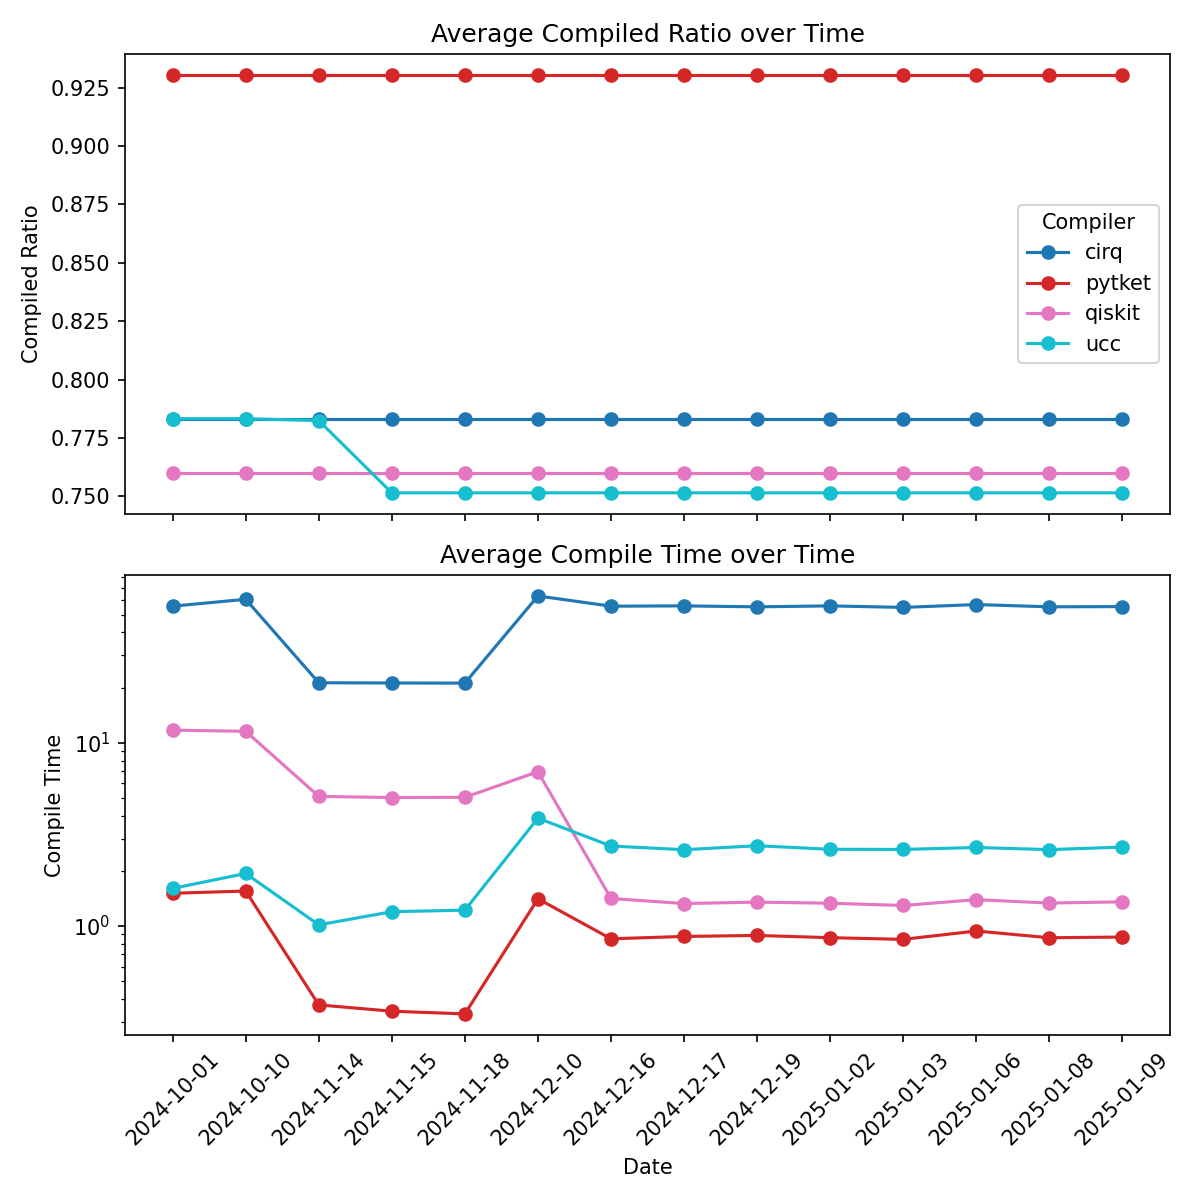
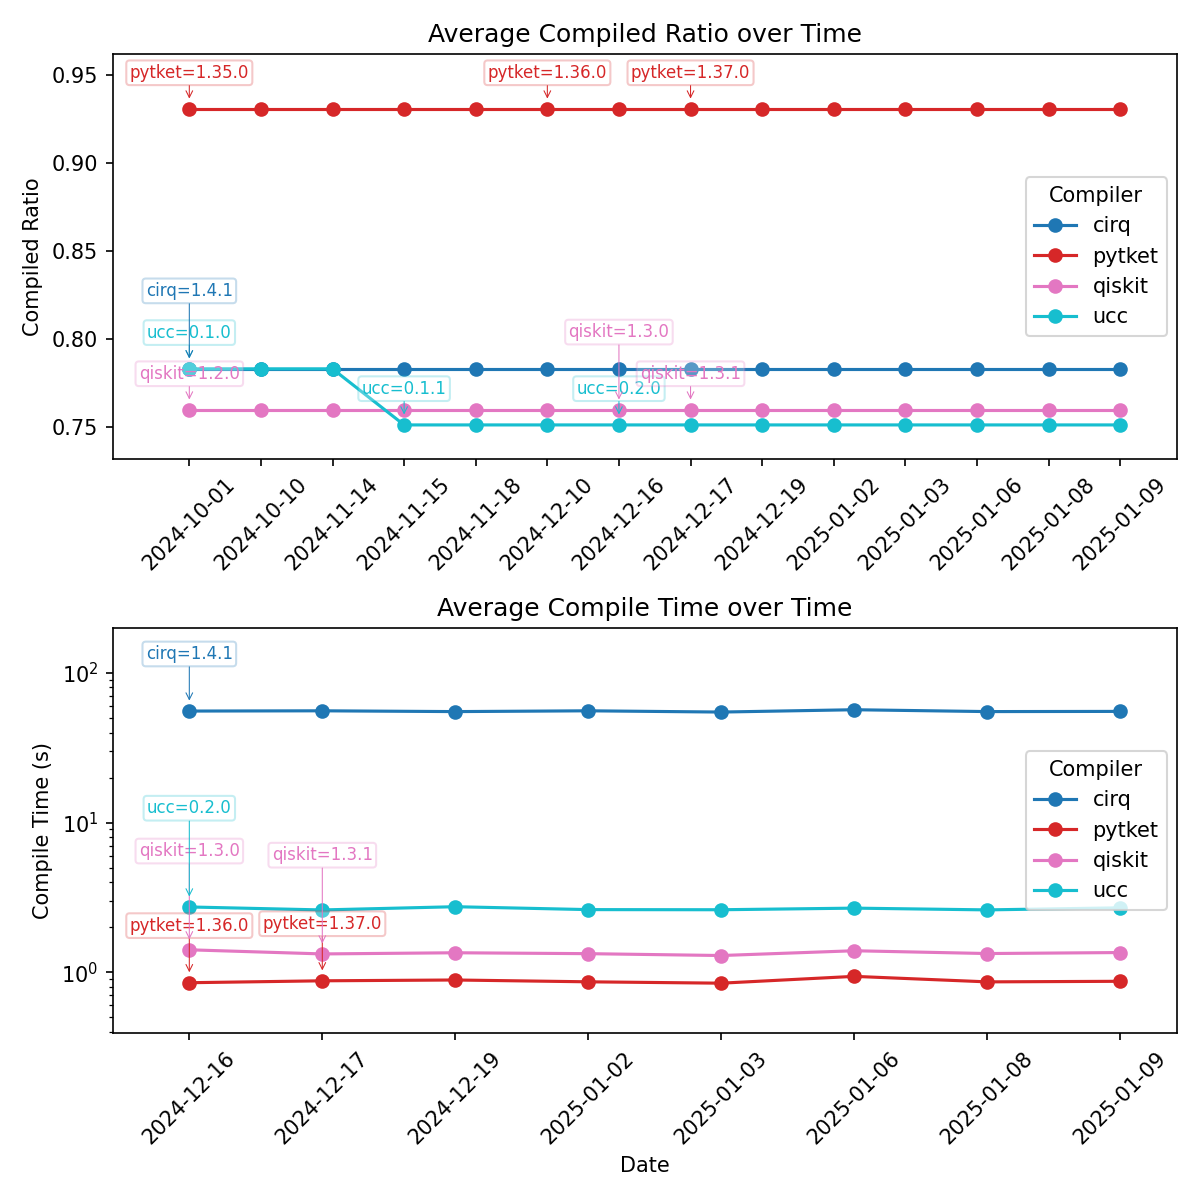
145 plot compiler versions over time on graph (#173)
* Initial code with version labels, needs formatting fixes

* Boxes attached to arrows for labels

* Move old data to test_results

* Closer formatting but still missing some labels

* Bring back datafiles from before GH Action pipeline and plot compiled ratio only

* Reset last_version_seen so all compiler versions are annotated in plot 2

* New plotting utilities for formatting. Close to what we need

* Closer, still overlapping slightly

* merge in main (#172)

* prep for pypi release

* author update

* contact email update

---------

* Rename image to previous name

* Simplify

* Sucessfully avoiding label overlaps, next to re-order labels vertically  based on datapoint location

* Correct version to reflect when the improvement was made rather than official release date

* Refactoring, very close to perfect

* Nicest plots yet, just one overlap to fix

* Pretty dang good

---------

diff --git a/benchmarks/scripts/plot_avg_benchmarks_over_time.py b/benchmarks/scripts/plot_avg_benchmarks_over_time.py
@@ -1,52 +1,59 @@
+from common import annotate_and_adjust, adjust_axes_to_fit_labels
+
 import glob
 import pandas as pd
 import matplotlib.pyplot as plt
 import os
+import re
 
+
+### Load data
 # Get the directory of the current script
 directory_of_this_file = os.path.dirname(os.path.abspath(__file__))
-
-# Construct the correct path to the results folder
 results_folder = os.path.join(directory_of_this_file, "../results")
-
-# Use glob to find all CSV files in the results folder
 csv_files = glob.glob(os.path.join(results_folder, "gates*.csv"))
 
 dataframes = []
 
-print("Loading data files...", )
-# Loop through each CSV file and read it into a DataFrame
-for file in csv_files:
-    print(file)
-    # Note, this will combine results from the same date
-    date_label = str(file).split('_')[1].split('.')[0]
-    df = pd.read_csv(file, header=1)  # Load the CSV file into a DataFrame
-    df['date'] = date_label
-    df['reduction_factor'] = df['raw_multiq_gates'] / df['compiled_multiq_gates'] 
-    df['gate_reduction_per_s'] = df['reduction_factor'] / df['compile_time']
-    df['compiled_ratio'] = df['compiled_multiq_gates'] / df['raw_multiq_gates']
-    
-    dataframes.append(df)   # Append the DataFrame to the list
+def extract_compiler_versions(header):
+    pattern = r"(\w+)=([\d\.]+)"
+    return dict(re.findall(pattern, header))
 
-# Concatenate all DataFrames into a single DataFrame
+print("Loading data files...")
+for file in csv_files:
+    with open(file, 'r') as f:
+        header_line = f.readline().strip()
+        compiler_versions = extract_compiler_versions(header_line)
+    date_label = str(file).split('_')[1].split('.')[0]
+    df = pd.read_csv(file, header=1)
+    df['date'] = date_label
+    df['compiled_ratio'] = df['compiled_multiq_gates'] / df['raw_multiq_gates']
+    df['compiler_version'] = df['compiler'].map(compiler_versions)
+ 
+    dataframes.append(df)
+
 df_dates = pd.concat(dataframes, ignore_index=True)
 
-# Calculate averages for plotting
-avg_compiled_ratio = df_dates.groupby(["compiler", "date"])["compiled_ratio"].mean().reset_index().sort_values("date")
-avg_compile_time = df_dates.groupby(["compiler", "date"])["compile_time"].mean().reset_index().sort_values("date")
+# Find the average compiled ratio for each compiler on each date
+avg_compiled_ratio = df_dates.groupby(["compiler", "date", "compiler_version"])["compiled_ratio"].mean().reset_index().sort_values("date")
 
-# Set global DPI
-plt.rcParams['figure.dpi'] = 150  # Adjust DPI as needed
+# Find the average compile time for each compiler on each date
+avg_compile_time = df_dates.groupby(["compiler", "date", "compiler_version"])["compile_time"].mean().reset_index().sort_values("date")
 
-# Create a colormap for unique compilers
+
+###### Plotting
+# Ensure colors are consistently assigned to each compiler
 unique_compilers = sorted(df_dates["compiler"].unique())
 colormap = plt.get_cmap("tab10", len(unique_compilers))
 color_map = {compiler: colormap(i) for i, compiler in enumerate(unique_compilers)}
 
-# Create subplots
-fig, ax = plt.subplots(2, 1, figsize=(8, 8), sharex=True)
+fig, ax = plt.subplots(2, 1, figsize=(8, 8), sharex=False, dpi=150)
+# Rotate x labels on axes 0
+plt.setp(ax[0].xaxis.get_majorticklabels(), rotation=45)
 
-# Plot avg_compiled_ratio
+
+#### Plot Compiled ratio
+print("Plotting compiled ratio...")
 for compiler in unique_compilers:
     compiler_data = avg_compiled_ratio[avg_compiled_ratio["compiler"] == compiler]
     ax[0].plot(
@@ -57,11 +64,63 @@ for compiler in unique_compilers:
         linestyle="-",
         color=color_map[compiler]
     )
+
+# Keep track of last compiler version seen over time to track version changes
+last_version_seen = {compiler: None for compiler in unique_compilers}
+
+previous_bboxes = []
+# Now iterate over each compiler entry and annotate if it's a new version, if so label it
+for date in avg_compiled_ratio["date"].unique():
+    date_data = avg_compiled_ratio[avg_compiled_ratio["date"] == date]
+    # Sort date_data in order of compiled_ratio
+    date_data = date_data.sort_values("compiled_ratio")
+    # print('Date data for \n', date, date_data, '\n')
+    # Now iterate over each compiler entry and annotate if it's a new version
+    for _, row in date_data.iterrows():
+        # Get the version for this date 
+        current_version = row["compiler_version"]
+        compiler = row["compiler"]
+        compiled_ratio = row["compiled_ratio"]
+        
+        # Check if the version has changed
+        if current_version != last_version_seen[compiler]:
+            text = f"{compiler}={current_version}"
+            xy = (row["date"], compiled_ratio)
+            color = color_map[compiler]
+
+            # Add the annotation and adjust for overlap
+            annotate_and_adjust(
+                ax=ax[0],
+                text=text,
+                xy=xy,
+                color=color,
+                previous_bboxes=previous_bboxes,
+                offset=(0, 15),  # Initial offset
+                increment=2,  # Vertical adjustment step
+                max_attempts=10,
+            )
+            plt.pause(0.1)
+            # Update the last seen version for this compiler
+            last_version_seen[compiler] = current_version
+    previous_bboxes = [] # Reset previous bboxes for next date            
+adjust_axes_to_fit_labels(ax[0], x_scale=1.01, y_scale=1.05)
+# Set y axis range to be slightly larger than data range
+
 ax[0].set_title("Average Compiled Ratio over Time")
 ax[0].set_ylabel("Compiled Ratio")
-ax[0].legend(title="Compiler")
+# ax[0].legend(title="Compiler", loc='center left')
+# Expand axes to be slightly larger than data range
+ax[0].legend(title="Compiler", loc="center right")
 
-# Plot avg_compile_time
+
+#### Plot Compile time
+# Get runtime data only after we created GitHub Actions pipeline for standardization
+avg_compile_time = avg_compile_time[avg_compile_time["date"] >= "2024-12-16"]
+
+previous_annotations = []
+last_version_seen = {compiler: None for compiler in unique_compilers}
+
+print("Plotting compile time...")
 for compiler in unique_compilers:
     compiler_data = avg_compile_time[avg_compile_time["compiler"] == compiler]
     ax[1].plot(
@@ -72,18 +131,49 @@ for compiler in unique_compilers:
         linestyle="-",
         color=color_map[compiler]
     )
+
+# Add annotations for version changes
+for date in avg_compile_time["date"].unique():
+    date_data = avg_compile_time[avg_compile_time["date"] == date]
+    # Sort date_data in order of compiled_ratio
+    date_data = date_data.sort_values("compile_time")
+    for _, row in date_data.iterrows():
+        # print(row, '\n')
+        # Get the version for this date 
+        current_version = row["compiler_version"]
+        compiler = row["compiler"]
+        compile_time = row["compile_time"]
+        
+        # Check if the version has changed
+        if current_version != last_version_seen[compiler]:
+            text = f"{compiler}={current_version}"
+            xy = (row["date"], compile_time)
+            color = color_map[compiler]
+
+            # Add the annotation and adjust for overlap
+            annotate_and_adjust(
+                ax=ax[1],
+                text=text,
+                xy=xy,
+                color=color,
+                previous_bboxes=previous_bboxes,
+                offset=(0, 25),  # Initial offset
+                increment=2,  # Vertical adjustment step
+                max_attempts=10,
+            )
+            # plt.pause(0.1)
+            # Update the last seen version for this compiler
+            last_version_seen[compiler] = current_version
+
 ax[1].set_title("Average Compile Time over Time")
-ax[1].set_ylabel("Compile Time")
+ax[1].set_ylabel("Compile Time (s)")
 ax[1].set_xlabel("Date")
 ax[1].set_yscale("log")
+ax[1].legend(title="Compiler", loc="center right")
+adjust_axes_to_fit_labels(ax[1], x_scale=1.01, y_scale=1.75, y_log=True)
 
 plt.xticks(rotation=45)
-
-# Adjust layout and save the figure
 plt.tight_layout()
 filename = os.path.join(directory_of_this_file, "../avg_compiler_benchmarks_over_time.png")
-print(f"\n Saving plot to {filename}")
+print(f"\nSaving plot to {filename}")
 fig.savefig(filename)
-
-# Show the plot (optional)
-# plt.show()

diff --git a/benchmarks/scripts/common.py b/benchmarks/scripts/common.py
@@ -2,6 +2,7 @@ from time import time
 import platform
 import os
 import pandas as pd
+import matplotlib
 from datetime import datetime
 from cirq import CZTargetGateset, optimize_for_target_gateset
 from pytket.circuit import OpType
@@ -21,7 +22,6 @@ from pytket import __version__ as pytket_version
 from ucc import __version__ as ucc_version
 
 import sys  # Add sys to accept command line arguments
-import os
 from ucc import compile as ucc_compile
 
 
@@ -188,6 +188,7 @@ def save_results(results_log, benchmark_name="gates", folder="../results", appen
 
     print(f"Results saved to {file_path}")
 
+
 # Read the QASM files passed as command-line arguments
 def get_qasm_files():
     if len(sys.argv) < 2:
@@ -195,3 +196,143 @@ def get_qasm_files():
         sys.exit(1)
     
     return sys.argv[1:]
+
+
+def annotate_and_adjust(ax, text, xy, color, previous_bboxes, offset=(0, 15), increment=5, fontsize=8, max_attempts=20):
+    """
+    Annotates the plot while dynamically adjusting the position to avoid overlaps. In-place operation.
+
+    Parameters:
+        ax (matplotlib.axes.Axes): The axis object to annotate.
+        text (str): The annotation text.
+        xy (tuple): The (x, y) coordinates for the annotation anchor point.
+        color (str): The color for the text and arrow.
+        previous_bboxes (list): A list to track previous annotation bounding boxes (in data coordinates).
+        offset (tuple): The initial offset in points (x_offset, y_offset).
+        increment (int): The vertical adjustment increment in points to resolve overlaps.
+        fontsize (int): Font size of the annotation text.
+        max_attempts (int): The maximum number of position adjustments to resolve overlaps.
+        #TODO: Add margin parameter to adjust the bounding box size. Can be an issue when comparing dates which are strings
+    Returns:
+        None
+    """
+    # Create the annotation
+    annotation = ax.annotate(
+        text,
+        xy,
+        textcoords="offset points",
+        xytext=offset,  # Default offset
+        ha='center',
+        fontsize=fontsize,
+        color=color,
+        arrowprops=dict(
+            arrowstyle="->",
+            color=color,
+            lw=0.5,
+            shrinkA=0,  # Shrink arrow length to avoid overlap
+            shrinkB=5
+        ),
+        bbox=dict(
+            boxstyle="round,pad=0.2",
+            edgecolor=color,
+            facecolor="white",
+            alpha=0.25
+        )
+    )
+
+    # Force a renderer update to ensure bounding box accuracy
+    ax.figure.canvas.draw()
+    renderer = ax.figure.canvas.get_renderer()
+
+    # Get the bounding box of the annotation in data coordinates
+    bbox = annotation.get_tightbbox(renderer).transformed(ax.transData.inverted())
+    # print(f"Initial annotation: '{text}' at {xy}, bbox: {bbox}", '\n')
+
+    attempts = 0
+    current_offset = offset[1]
+    # Adjust position to avoid overlap
+    while any(bbox.overlaps(prev_bbox) for prev_bbox in previous_bboxes):
+        for prev_bbox in previous_bboxes:
+            if bbox.overlaps(prev_bbox):
+                # print(f"\nOverlapping with previous annotation:\n"
+                #       f"  Previous bbox: {prev_bbox}\n"
+                #       f"  Annotation text: '{annotation.get_text()}'\n")
+                break
+        # Increase vertical offset to move annotation upward
+        current_offset += increment
+        annotation.set_position((offset[0], current_offset))
+        
+        # Force the renderer to update after position adjustment
+        ax.figure.canvas.draw()
+        bbox = annotation.get_tightbbox(renderer).transformed(ax.transData.inverted())
+
+        # Update the plot to show the new position
+        ax.figure.canvas.flush_events()
+        # Increment the attempt counter and check for max attempts
+        attempts += 1
+        if attempts >= max_attempts:
+            print(f"Warning: Maximum adjustment attempts reached for annotation '{text}'.")
+            break
+
+    # Add the final bounding box to the list of previous bounding boxes
+    previous_bboxes.append(bbox)
+
+
+
+def adjust_axes_to_fit_labels(ax, x_scale=1.0, y_scale=1.0, x_log=False, y_log=False):
+    """
+    Adjust the axes limits to ensure all labels and annotations fit within the view. In-place operation.
+
+    Parameters:
+    - ax: The Matplotlib axes object to adjust.
+    - x_scale: The factor by which to expand the x-axis limits.
+    - y_scale: The factor by which to expand the y-axis limits.
+    - x_log: Set to True if the x-axis uses a logarithmic scale.
+    - y_log: Set to True if the y-axis uses a logarithmic scale.
+    """
+    renderer = ax.figure.canvas.get_renderer()
+
+    # Get the current axes limits
+    x_min, x_max = ax.get_xlim()
+    y_min, y_max = ax.get_ylim()
+
+    # Check the position of all annotations
+    all_bboxes = [
+        child.get_window_extent(renderer=renderer).transformed(ax.transData.inverted())
+        for child in ax.get_children() if isinstance(child, matplotlib.text.Annotation)
+    ]
+
+    # Expand x-axis limits if annotations are off the edge
+    for bbox in all_bboxes:
+        if bbox.x0 < x_min:  # Left edge
+            x_min = bbox.x0
+        if bbox.x1 > x_max:  # Right edge
+            x_max = bbox.x1
+
+    # Expand y-axis limits if annotations are off the edge
+    for bbox in all_bboxes:
+        if bbox.y0 < y_min:  # Bottom edge
+            y_min = bbox.y0
+        if bbox.y1 > y_max:  # Top edge
+            y_max = bbox.y1
+
+    # Apply scaling factors based on whether axes are logarithmic
+    if x_log:
+        x_min = x_min / x_scale
+        x_max = x_max * x_scale
+    else:
+        x_range = x_max - x_min
+        x_min -= (x_scale - 1) * x_range
+        x_max += (x_scale - 1) * x_range
+
+    if y_log:
+        y_min = y_min / y_scale
+        y_max = y_max * y_scale
+    else:
+        y_range = y_max - y_min
+        y_min -= (y_scale - 1) * y_range
+        y_max += (y_scale - 1) * y_range
+
+    # Set the new axis limits
+    ax.set_xlim(x_min, x_max)
+    ax.set_ylim(y_min, y_max)

diff --git a/benchmarks/scripts/__init__.py b/benchmarks/scripts/__init__.py
@@ -1,4 +1,4 @@
-from .common import log_performance, save_results
+from .common import log_performance, save_results, annotate_and_adjust, adjust_axes_to_fit_labels
 from .qiskit_circuits import qaoa_ising_ansatz, qcnn_circuit, VQE_ansatz, random_clifford_circuit
 from .cirq_circuits import cirq_prep_select
 from .generate_layouts import generate_tilted_square_coupling_list, generate_heavy_hex_coupling_list
